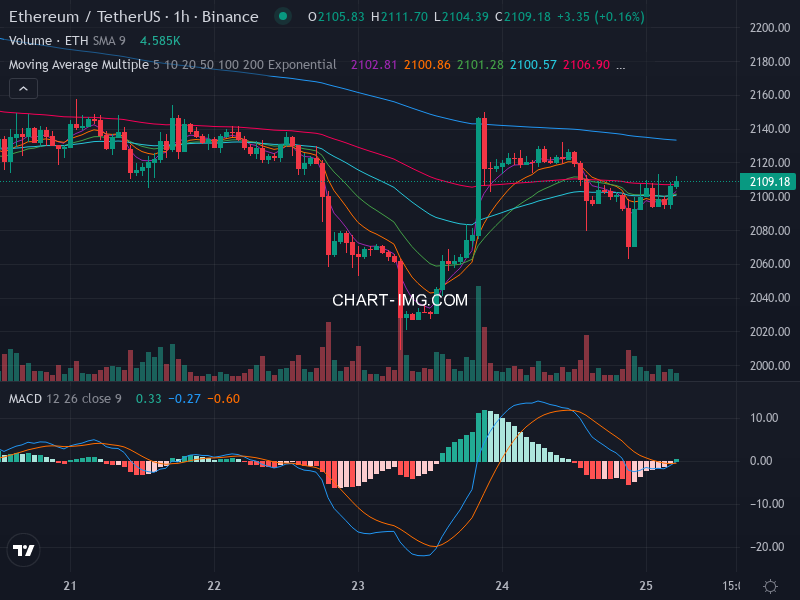
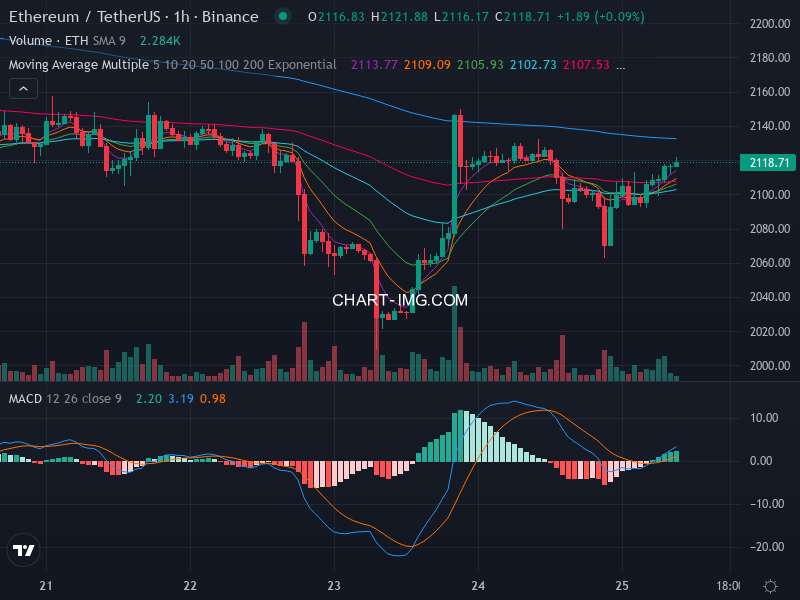
Update chart and timestamp

diff --git a/README.md b/README.md
@@ -5,7 +5,7 @@
 
 ## 最新技術分析圖表 (Latest Analysis)
 ![Latest Chart](latest_chart.png)  
-*Last Analysis: 2026-05-25 05:29:46 UTC*
+*Last Analysis: 2026-05-25 09:17:47 UTC*
 
 ## 主要功能
 - **自動繪圖**: 整合 `chart-img.com` API 繪製包含 EMA 與 MACD 指標的專業線圖（深色主題）。